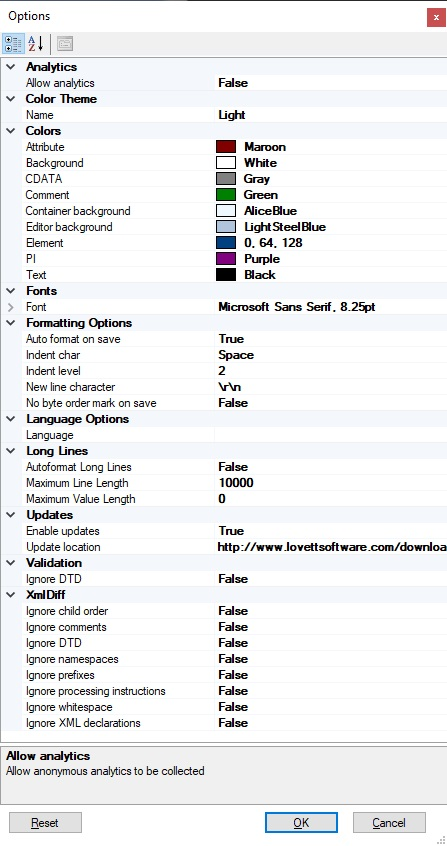
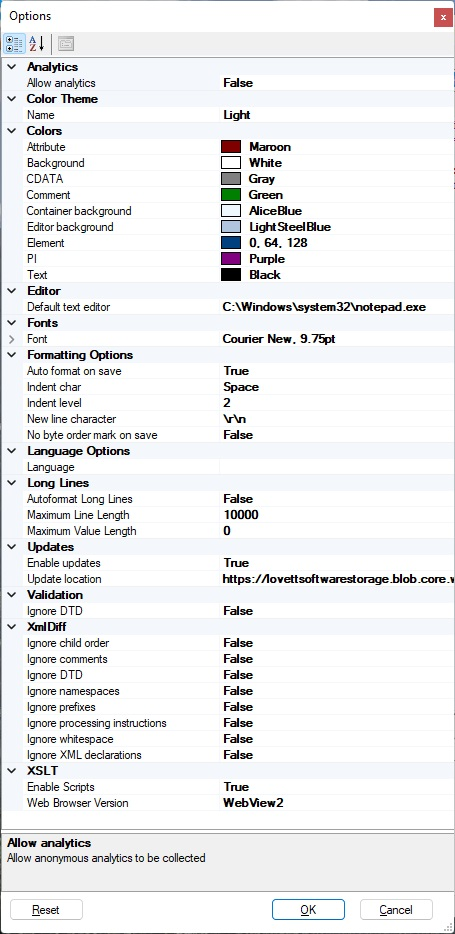
add docs for new options.

Changed region(s): [[0.0, 0.0, 1.0, 1.0], [0.4653, 0.0615, 0.9306, 0.4917]]

diff --git a/docs/help/options.md b/docs/help/options.md
@@ -31,3 +31,10 @@ You can turn off DTD validation.
 ### XmlDiff
 Options that control how the XmlDiff works when you compare XML
 documents.
+
+### XSLT
+Options that control how the the XSLT Output works.
+Set `Enable Scripts` to false if you don't trust the script code in your XSLT stylesheets.
+Toggle the Web Browser Version to WebView2 if you have the new
+[WebView2](https://developer.microsoft.com/en-us/microsoft-edge/webview2/)
+component installed on your machine.
